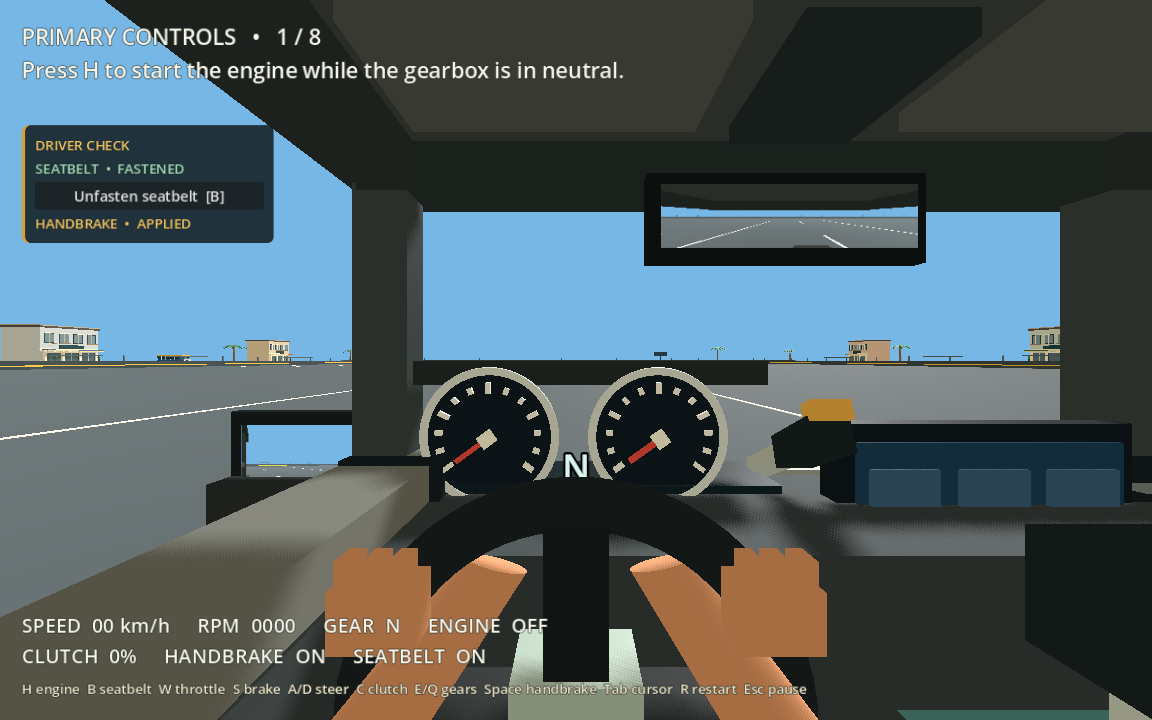
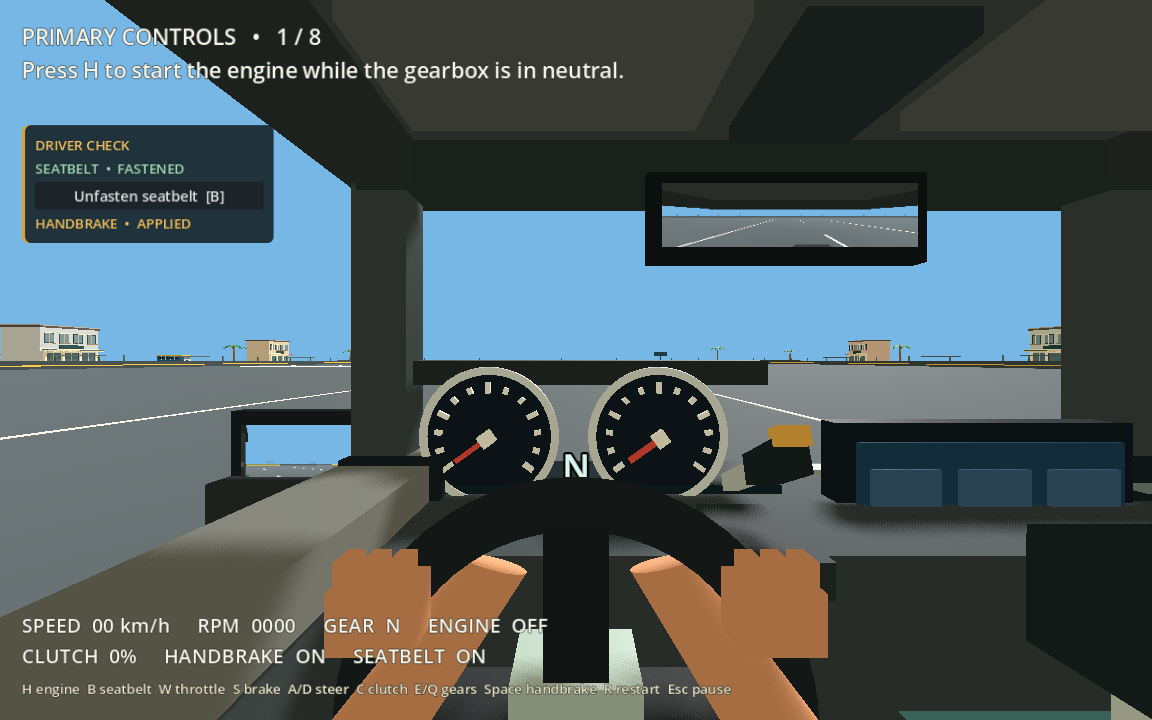
Move handbrake to side console and remove cursor toggle

diff --git a/docs/AGENT_IMPLEMENTATION.md b/docs/AGENT_IMPLEMENTATION.md
@@ -4,7 +4,7 @@
 
 Build Maniubra incrementally: a presentable, first-person manual-driving simulator for one player on macOS. Delivery is ASAP. The full product scope remains in `PROTOTYPE_PLAN.md`; complete a small course end to end before expanding the world.
 
-Implemented now: four-course menu, nine individual maneuver entries, and a playable Primary Controls lesson in a first-person, left-hand-drive manual sedan. Its eight-step enclosed-lot exercise has timestamped feedback, upper-right corrective error toasts for rejected shifts, stalls, and blocked starts, pause/restart/exit, local five-attempt history, original stylized roofed cockpit/road geometry, rear and side mirror views, synthetic audio, and a local macOS export. The sedan now has animated steering and shifting hands, H-key ignition, a B-key and clickable seatbelt toggle, an animated center handbrake lever, low-speed clutch/brake stalling with engine shutdown, stronger propulsion, approximate RPM, tighter suspension, and a camera stabilized against body roll. An upper-left driver check shows seatbelt and handbrake state; the seatbelt is currently a practice indicator, not a scored safety rule. The 160 × 240 m enclosed practice lot has a clear launch lane, painted parking bays, a cone slalom with 17 physical cones, and a circular practice loop. Reusable original 3D shopfront, palm, jeepney, and tricycle scenes sit beyond the walls. The road-user vehicles here are static scenery, and the roundabout is not yet an assessed maneuver. Course and maneuver selections use generated illustrated cards with accurate availability labels. Start is enabled only for Primary Controls. Secondary Controls, maneuvers, and Open World remain unavailable. Physical controller profiles and a sourced 3D asset collection are not validated or added yet.
+Implemented now: four-course menu, nine individual maneuver entries, and a playable Primary Controls lesson in a first-person, left-hand-drive manual sedan. Its eight-step enclosed-lot exercise has timestamped feedback, upper-right corrective error toasts for rejected shifts, stalls, and blocked starts, pause/restart/exit, local five-attempt history, original stylized roofed cockpit/road geometry, rear and side mirror views, synthetic audio, and a local macOS export. The sedan now has animated steering and shifting hands, H-key ignition, a B-key and clickable seatbelt toggle, an animated handbrake lever on the driver-side console, low-speed clutch/brake stalling with engine shutdown, stronger propulsion, approximate RPM, tighter suspension, and a camera stabilized against body roll. An upper-left driver check shows seatbelt and handbrake state; the seatbelt is currently a practice indicator, not a scored safety rule. The 160 × 240 m enclosed practice lot has a clear launch lane, painted parking bays, a cone slalom with 17 physical cones, and a circular practice loop. Reusable original 3D shopfront, palm, jeepney, and tricycle scenes sit beyond the walls. The road-user vehicles here are static scenery, and the roundabout is not yet an assessed maneuver. Course and maneuver selections use generated illustrated cards with accurate availability labels. Start is enabled only for Primary Controls. Secondary Controls, maneuvers, and Open World remain unavailable. Physical controller profiles and a sourced 3D asset collection are not validated or added yet.
 
 The sedan now sits lower on its wheels. A flat-road regression check keeps ordinary full-lock cornering planted and still permits rollover at high speed; inspect handling in a manually driven exported-app run before treating the tune as final.
 

diff --git a/README.md b/README.md
@@ -14,18 +14,17 @@ The engine and road WAVs have complete loop ranges. The engine loop starts with 
 
 When a shift is rejected, the engine stalls, or an ignition attempt is blocked, a short-lived toast appears at the upper right with the corrective action. The event remains in the attempt's "What happened" review. See the [toast in the cockpit](docs/screenshots/error_toast.png).
 
-The upper-left driver check reminds you whether the seatbelt is fastened and the handbrake is applied. Press **B** to toggle the seatbelt, or press **Tab** to show the cursor and click its button; press Tab again to resume mouse look. Holding **Space** applies the handbrake and raises the visible lever beside the center display. See the [released](docs/screenshots/driver_check_released.png) and [applied](docs/screenshots/driver_check_applied.png) views. The seatbelt is a practice control and indicator; it does not yet change crash physics or the lesson result.
+The upper-left driver check reminds you whether the seatbelt is fastened and the handbrake is applied. Press **B** to toggle the seatbelt while driving. Its button is also clickable while paused, when the cursor is already visible. Holding **Space** applies the handbrake and raises the lever on the driver's right side of the center console. See the [released](docs/screenshots/driver_check_released.png) and [applied](docs/screenshots/driver_check_applied.png) views. The seatbelt is a practice control and indicator; it does not yet change crash physics or the lesson result.
 
 | Action | Keyboard and mouse |
 |---|---|
 | Start / stop engine | H |
-| Fasten / unfasten seatbelt | B, or click the upper-left button with the cursor shown |
+| Fasten / unfasten seatbelt | B, or click the upper-left button while paused |
 | Steer | A / D |
 | Accelerate / brake | W / S |
 | Depress clutch | Hold C |
 | Shift up / down | E / Q |
 | Handbrake | Hold Space |
-| Show cursor / resume mouse look | Tab |
 | Look around | Mouse |
 | Pause / resume | Escape |
 | Restart lesson | R |

diff --git a/PROTOTYPE_PLAN.md b/PROTOTYPE_PLAN.md
@@ -2,7 +2,7 @@
 
 Planning baseline: 6 October 2026. This is a proposed implementation plan, not a claim that the features already exist.
 
-Implementation update: the four-course menu launches an eight-step first-person Primary Controls lesson in an enclosed 160 × 240 m driving-school lot. The manual sedan has H-key ignition, a B-key/clickable seatbelt practice control, an animated center handbrake lever, low-speed engine stalling that shuts off propulsion and audio, animated hands, RPM feedback, and an appropriately stable cockpit camera. The lot has a clear launch lane, parking bays, 17 physical traffic cones, and a circular practice loop, with Philippine-inspired scenery beyond its walls. Local attempt history records stalls and shift errors; other lessons remain unavailable. See `README.md`, `docs/ARCHITECTURE.md`, and `docs/AGENT_IMPLEMENTATION.md` for current implementation and verification. The connection-check section below records the earlier pre-scaffold state.
+Implementation update: the four-course menu launches an eight-step first-person Primary Controls lesson in an enclosed 160 × 240 m driving-school lot. The manual sedan has H-key ignition, a B-key/clickable seatbelt practice control, an animated handbrake lever on the driver-side console, low-speed engine stalling that shuts off propulsion and audio, animated hands, RPM feedback, and an appropriately stable cockpit camera. The lot has a clear launch lane, parking bays, 17 physical traffic cones, and a circular practice loop, with Philippine-inspired scenery beyond its walls. Local attempt history records stalls and shift errors; other lessons remain unavailable. See `README.md`, `docs/ARCHITECTURE.md`, and `docs/AGENT_IMPLEMENTATION.md` for current implementation and verification. The connection-check section below records the earlier pre-scaffold state.
 
 ## Goal and scope
 

diff --git a/assets/ASSET_REGISTER.md b/assets/ASSET_REGISTER.md
@@ -4,7 +4,7 @@ The playable Primary Controls course uses project-created geometry and audio. Th
 
 | Asset | Creator and source | License / use | Notes |
 |---|---|---|---|
-| Sedan exterior and cockpit | Maniubra prototype, `scripts/sedan.gd` | Original project work | Procedural Godot meshes/materials, including full roof shell, headliner, windshield header, wheel, dashboard, seats, hood, mirrors, animated hand/arm visuals, and a moving center handbrake lever. |
+| Sedan exterior and cockpit | Maniubra prototype, `scripts/sedan.gd` | Original project work | Procedural Godot meshes/materials, including full roof shell, headliner, windshield header, wheel, dashboard, seats, hood, mirrors, animated hand/arm visuals, and a moving handbrake lever on the driver-side console. |
 | Streetscape kit | Maniubra prototype, `scripts/props/city_prop.gd` and `scenes/props/` | Original project work | Reusable Godot 3D scenes for sari-sari/shopfront façades, streetlamps, produce stalls with umbrellas, palms, a jeepney, and a tricycle. These are static visual props; traffic behavior is not implemented. |
 | Primary Controls training lot | Maniubra prototype, `scripts/primary_controls.gd` and `scripts/props/traffic_cone.gd` | Original project work | Enclosed 160 × 240 m lot, markings, parking bays, circular practice loop, lighting, and 17 reusable physical orange-and-white cones. The playable lesson has eight control steps. |
 | Engine and road loops | Maniubra prototype, `tools/generate_audio.py` | Original project work | Synthetic WAV files generated from source code. These are prototype sounds, not recordings of a specific vehicle. |
